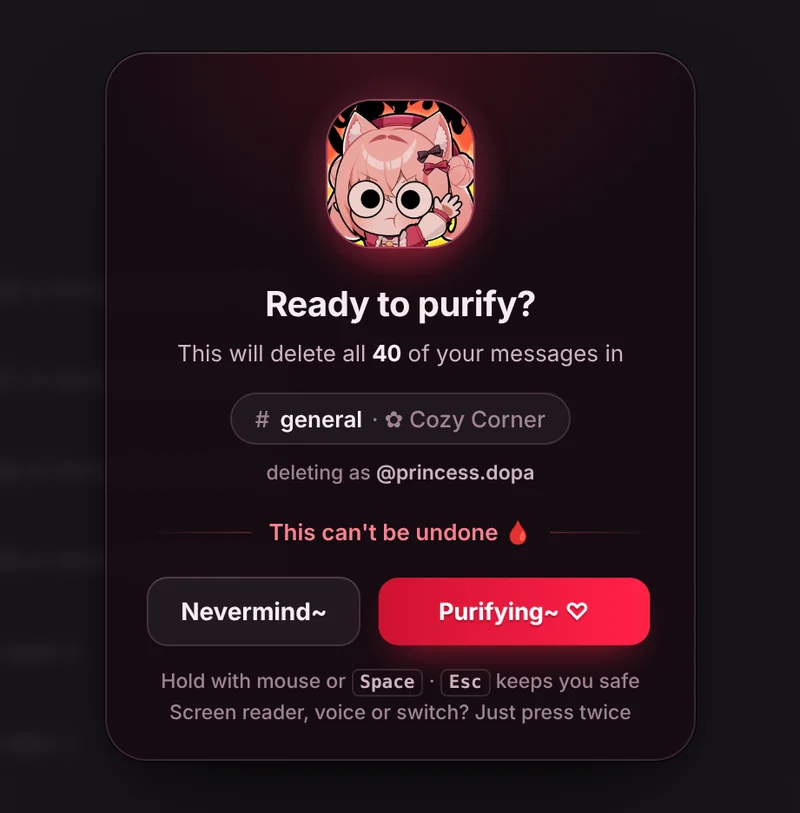
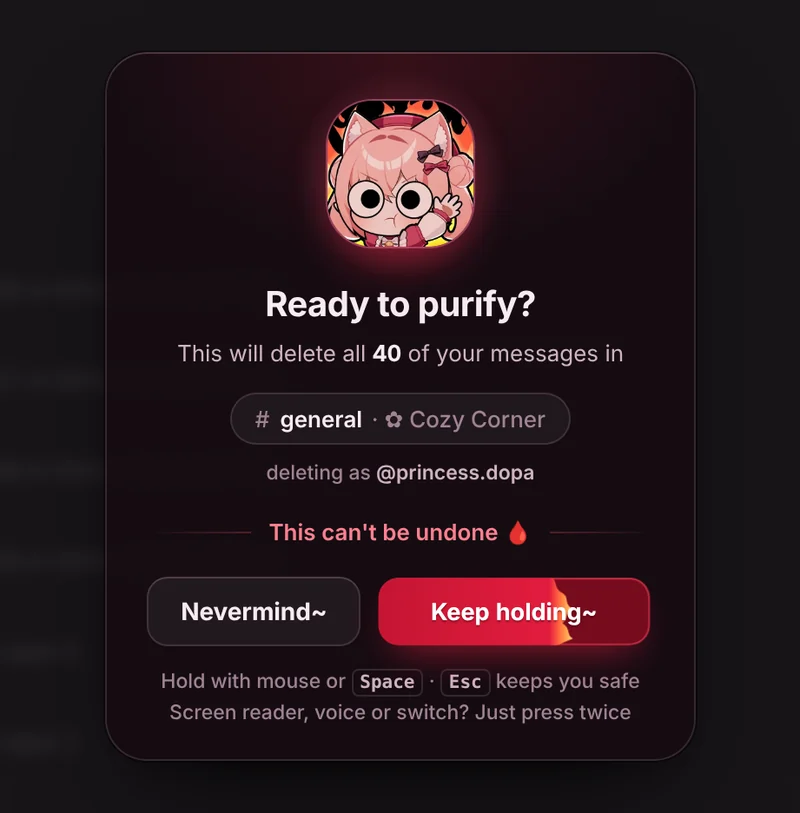
Trap focus in the welcome card, and show the fill in the install picture
The two cosmetic findings from the final review:
- The first-run welcome card is modal now: aria-modal, and Tab cycles its
  two buttons instead of escaping into Discord behind it (Esc still
  dismisses). T64 now fails if focus leaves the shadow root.
- The install page's "Hold to purify" picture is retaken mid-fill (flame
  edge, "Keep holding~"), the gesture the card teaches, instead of the
  sealed "Purifying~" frame a slow screenshot caught past the 850ms commit.

Claude-Session: https://claude.ai/code/session_01KmpKQV8MWUphwgQZhfMiGa

Changed region(s): [[0.5312, 0.7073, 0.8125, 0.7995]]

diff --git a/dist/DopasPurifier.plugin.js b/dist/DopasPurifier.plugin.js
@@ -1326,7 +1326,7 @@ function createPurifier() {
         h('button', { class: 'tab', role: 'tab', 'data-tab': 'current', text: 'This chat' }),
         h('button', { class: 'tab', role: 'tab', 'data-tab': 'batch' }, h('span', { text: 'Many chats' }), h('span', { class: 'tab-badge', 'data-role': 'tab-badge', hidden: true }),
           h('span', { class: 'sr', 'data-role': 'tab-badge-sr', hidden: true, text: ' selected' }))),
-      h('div', { class: 'welcome', 'data-role': 'welcome', hidden: true, role: 'dialog', 'aria-labelledby': 'dp-welcome-title' },
+      h('div', { class: 'welcome', 'data-role': 'welcome', hidden: true, role: 'dialog', 'aria-modal': 'true', 'aria-labelledby': 'dp-welcome-title' },
         h('div', { class: 'welcome-card' },
           h('div', { class: 'welcome-emote' }, h('img', { src: EMOTE_IMG, alt: '' })),
           h('div', { class: 'welcome-title', id: 'dp-welcome-title', text: 'Hi princess~ ♡' }),
@@ -3006,6 +3006,16 @@ function createPurifier() {
     items[i < 0 ? 0 : (i + (e.shiftKey ? items.length - 1 : 1)) % items.length].focus();
   }
 
+  // The first-run card is modal too: Tab cycles its two buttons instead of wandering into Discord.
+  function trapWelcome(e) {
+    const w = $('[data-role="welcome"]');
+    if (w.hidden || w.dataset.leaving || e.key !== 'Tab') return;
+    const items = [$('[data-act="welcome-ok"]'), $('[data-act="welcome-batch"]')].filter(Boolean);
+    const i = items.indexOf(root.activeElement);
+    e.preventDefault();
+    items[i < 0 ? 0 : (i + (e.shiftKey ? items.length - 1 : 1)) % items.length].focus();
+  }
+
   // ── Terminal log ────────────────────────────────────────
 
   const LOG_LIMIT = 800;
@@ -3795,6 +3805,7 @@ function createPurifier() {
       if (modal && e.key === 'Escape') { e.preventDefault(); closeDialog(false); }
       else if (e.key === 'Escape') escapeFrom(root.activeElement);
       trapFocus(e);
+      trapWelcome(e);
     });
     const modalLayer = $('.modal-layer');
     modalLayer.addEventListener('pointerdown', (e) => {

diff --git a/docs/downloads/DopasPurifier.plugin.js b/docs/downloads/DopasPurifier.plugin.js
@@ -1326,7 +1326,7 @@ function createPurifier() {
         h('button', { class: 'tab', role: 'tab', 'data-tab': 'current', text: 'This chat' }),
         h('button', { class: 'tab', role: 'tab', 'data-tab': 'batch' }, h('span', { text: 'Many chats' }), h('span', { class: 'tab-badge', 'data-role': 'tab-badge', hidden: true }),
           h('span', { class: 'sr', 'data-role': 'tab-badge-sr', hidden: true, text: ' selected' }))),
-      h('div', { class: 'welcome', 'data-role': 'welcome', hidden: true, role: 'dialog', 'aria-labelledby': 'dp-welcome-title' },
+      h('div', { class: 'welcome', 'data-role': 'welcome', hidden: true, role: 'dialog', 'aria-modal': 'true', 'aria-labelledby': 'dp-welcome-title' },
         h('div', { class: 'welcome-card' },
           h('div', { class: 'welcome-emote' }, h('img', { src: EMOTE_IMG, alt: '' })),
           h('div', { class: 'welcome-title', id: 'dp-welcome-title', text: 'Hi princess~ ♡' }),
@@ -3006,6 +3006,16 @@ function createPurifier() {
     items[i < 0 ? 0 : (i + (e.shiftKey ? items.length - 1 : 1)) % items.length].focus();
   }
 
+  // The first-run card is modal too: Tab cycles its two buttons instead of wandering into Discord.
+  function trapWelcome(e) {
+    const w = $('[data-role="welcome"]');
+    if (w.hidden || w.dataset.leaving || e.key !== 'Tab') return;
+    const items = [$('[data-act="welcome-ok"]'), $('[data-act="welcome-batch"]')].filter(Boolean);
+    const i = items.indexOf(root.activeElement);
+    e.preventDefault();
+    items[i < 0 ? 0 : (i + (e.shiftKey ? items.length - 1 : 1)) % items.length].focus();
+  }
+
   // ── Terminal log ────────────────────────────────────────
 
   const LOG_LIMIT = 800;
@@ -3795,6 +3805,7 @@ function createPurifier() {
       if (modal && e.key === 'Escape') { e.preventDefault(); closeDialog(false); }
       else if (e.key === 'Escape') escapeFrom(root.activeElement);
       trapFocus(e);
+      trapWelcome(e);
     });
     const modalLayer = $('.modal-layer');
     modalLayer.addEventListener('pointerdown', (e) => {

diff --git a/dist/dopas-discord-purifier.user.js b/dist/dopas-discord-purifier.user.js
@@ -1293,7 +1293,7 @@
         h('button', { class: 'tab', role: 'tab', 'data-tab': 'current', text: 'This chat' }),
         h('button', { class: 'tab', role: 'tab', 'data-tab': 'batch' }, h('span', { text: 'Many chats' }), h('span', { class: 'tab-badge', 'data-role': 'tab-badge', hidden: true }),
           h('span', { class: 'sr', 'data-role': 'tab-badge-sr', hidden: true, text: ' selected' }))),
-      h('div', { class: 'welcome', 'data-role': 'welcome', hidden: true, role: 'dialog', 'aria-labelledby': 'dp-welcome-title' },
+      h('div', { class: 'welcome', 'data-role': 'welcome', hidden: true, role: 'dialog', 'aria-modal': 'true', 'aria-labelledby': 'dp-welcome-title' },
         h('div', { class: 'welcome-card' },
           h('div', { class: 'welcome-emote' }, h('img', { src: EMOTE_IMG, alt: '' })),
           h('div', { class: 'welcome-title', id: 'dp-welcome-title', text: 'Hi princess~ ♡' }),
@@ -2973,6 +2973,16 @@
     items[i < 0 ? 0 : (i + (e.shiftKey ? items.length - 1 : 1)) % items.length].focus();
   }
 
+  // The first-run card is modal too: Tab cycles its two buttons instead of wandering into Discord.
+  function trapWelcome(e) {
+    const w = $('[data-role="welcome"]');
+    if (w.hidden || w.dataset.leaving || e.key !== 'Tab') return;
+    const items = [$('[data-act="welcome-ok"]'), $('[data-act="welcome-batch"]')].filter(Boolean);
+    const i = items.indexOf(root.activeElement);
+    e.preventDefault();
+    items[i < 0 ? 0 : (i + (e.shiftKey ? items.length - 1 : 1)) % items.length].focus();
+  }
+
   // ── Terminal log ────────────────────────────────────────
 
   const LOG_LIMIT = 800;
@@ -3762,6 +3772,7 @@
       if (modal && e.key === 'Escape') { e.preventDefault(); closeDialog(false); }
       else if (e.key === 'Escape') escapeFrom(root.activeElement);
       trapFocus(e);
+      trapWelcome(e);
     });
     const modalLayer = $('.modal-layer');
     modalLayer.addEventListener('pointerdown', (e) => {

diff --git a/src/ui.js b/src/ui.js
@@ -468,7 +468,7 @@
         h('button', { class: 'tab', role: 'tab', 'data-tab': 'current', text: 'This chat' }),
         h('button', { class: 'tab', role: 'tab', 'data-tab': 'batch' }, h('span', { text: 'Many chats' }), h('span', { class: 'tab-badge', 'data-role': 'tab-badge', hidden: true }),
           h('span', { class: 'sr', 'data-role': 'tab-badge-sr', hidden: true, text: ' selected' }))),
-      h('div', { class: 'welcome', 'data-role': 'welcome', hidden: true, role: 'dialog', 'aria-labelledby': 'dp-welcome-title' },
+      h('div', { class: 'welcome', 'data-role': 'welcome', hidden: true, role: 'dialog', 'aria-modal': 'true', 'aria-labelledby': 'dp-welcome-title' },
         h('div', { class: 'welcome-card' },
           h('div', { class: 'welcome-emote' }, h('img', { src: EMOTE_IMG, alt: '' })),
           h('div', { class: 'welcome-title', id: 'dp-welcome-title', text: 'Hi princess~ ♡' }),
@@ -2148,6 +2148,16 @@
     items[i < 0 ? 0 : (i + (e.shiftKey ? items.length - 1 : 1)) % items.length].focus();
   }
 
+  // The first-run card is modal too: Tab cycles its two buttons instead of wandering into Discord.
+  function trapWelcome(e) {
+    const w = $('[data-role="welcome"]');
+    if (w.hidden || w.dataset.leaving || e.key !== 'Tab') return;
+    const items = [$('[data-act="welcome-ok"]'), $('[data-act="welcome-batch"]')].filter(Boolean);
+    const i = items.indexOf(root.activeElement);
+    e.preventDefault();
+    items[i < 0 ? 0 : (i + (e.shiftKey ? items.length - 1 : 1)) % items.length].focus();
+  }
+
   // ── Terminal log ────────────────────────────────────────
 
   const LOG_LIMIT = 800;
@@ -2937,6 +2947,7 @@
       if (modal && e.key === 'Escape') { e.preventDefault(); closeDialog(false); }
       else if (e.key === 'Escape') escapeFrom(root.activeElement);
       trapFocus(e);
+      trapWelcome(e);
     });
     const modalLayer = $('.modal-layer');
     modalLayer.addEventListener('pointerdown', (e) => {
